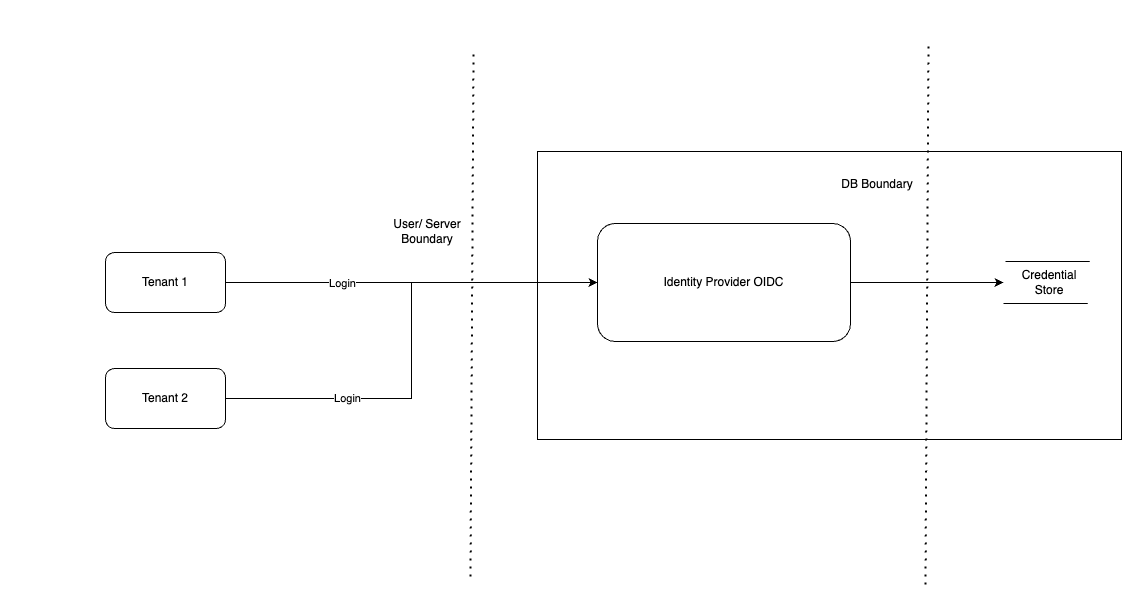
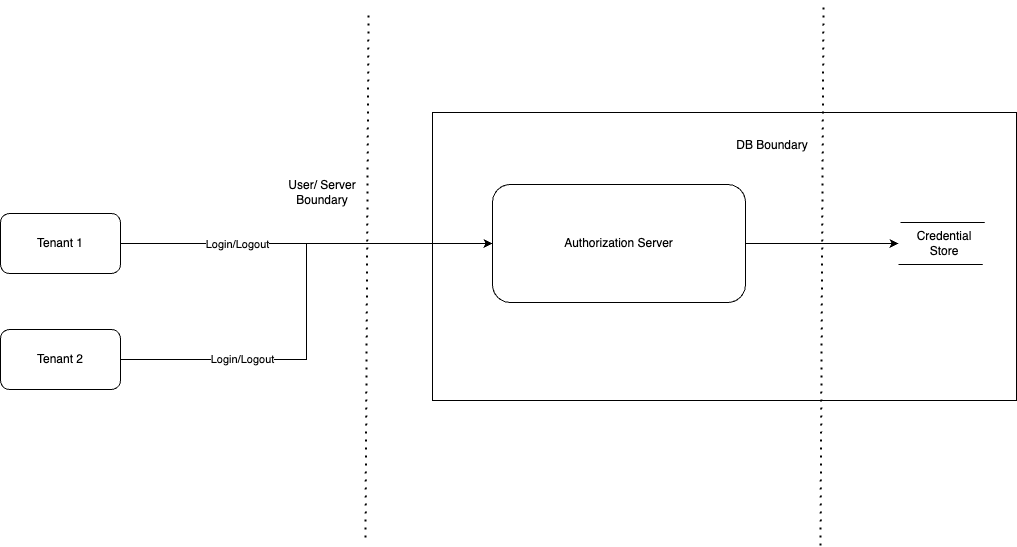
Threat model draft

diff --git a/threat_model.tex b/threat_model.tex
@@ -1,5 +1,5 @@
 \chapter{Threat Modelling}
-
+\ref{chap:threat_model}
 Threat modelling is an act of security analysis which aids in discovering potential vulnerabilities in an application or a system before they become threats \citep{threat_model_intro}. This exercise is a crucial step in the Software Development Life Cycle (SDLC), as it helps detect the possible flaws in the system, and suitable mitigation can be applied. Similarly, threat modelling will also be conducted for this project, where an authentication server using OIDC protocol is operated in a cloud environment. The approach that this project will apply to threat modelling is based on Shostack's Four Question Framework \citep{shostack}. The questions focus on the project objectives, what could go wrong there, what mitigations could be applied, and whether it can be improved. Using Shostacks questions in conjunction with the OWASP threat modelling process, the application, using OpenID Connect in Cloud, can be analysed \citep{owasp_threat_model}. 
 
 
@@ -8,7 +8,7 @@ To answer the first question about \textit{what are we working on}, this section
 \begin{itemize}
     \item \textbf{Application Name:} Multi-tenant App
     \item \textbf{Application Version:} v1.0
-    \item \textbf{Description:} This generic authentication and authorisation application utilises OpenID Connect protocols PKCE flow (See Figure \ref{fig:pkce_flow}) in a public cloud environment. This application will be based on multitenant capability, where the users cannot access each other's resources even though they share the same infrastructure and application. This is a general API which would provide the capabilities mentioned in Table \ref{table:threat_model_entry_points}.
+    \item \textbf{Description:} This generic authentication and authorisation application utilises OpenID Connect protocols PKCE flow (See Figure \ref{fig:pkce_flow}) in a public cloud environment. This application will be based on multitenant capability, where the users cannot access each other's resources even though they share the same infrastructure and application. This general API would provide the capabilities mentioned in Table \ref{table:threat_model_entry_points}.
   \end{itemize}
 
 \subsection{Entry Points}
@@ -29,7 +29,7 @@ To answer the first question about \textit{what are we working on}, this section
 \hline
 \endlastfoot
 
-/login & Entry point for user authentication.  & 
+/authorize & Entry point for user authentication.  & 
 - client\_id: The client ID of the application \newline 
 %- redirect\_uri: URI where the response will be sent \newline
 - scope: Scopes for requested authentication (e.g., OpenID, email) \newline 
@@ -39,13 +39,13 @@ To answer the first question about \textit{what are we working on}, this section
 \hline
 
 /token & Entry point for exchanging authorization code for tokens (access token, ID token, refresh token). & 
-- grant\_type: Must be "authorization\_code" \newline 
-- code: Authorization code received from /login \newline
-%- redirect\_uri: Must match the original redirect URI used in /login \newline 
-- client\_id: The client ID of the application & 
+- grant\_type: "authorization\_code" \newline 
+- code: Authorization code received from /authorize \newline
+- redirect\_uri: Must match the original redirect URI used in /login \newline 
+- client\_id: The client ID of the application
+- code\_verifier: Code used to validate code\_challenge& 
 - access\_token: Token for accessing protected resources \newline 
 - id\_token: Token containing user identity information \newline 
-- refresh\_token: Token for obtaining new access tokens \newline 
 - Error in case of invalid request \\
 \hline
 
@@ -64,16 +64,158 @@ To answer the first question about \textit{what are we working on}, this section
 \hline
 
 \end{longtable}
-\section{Data Flow Diagram}
-As a first step to identify what is the intention of the project, a data flow diagram (See Figure XX)
+
+\begin{longtable}{|p{8cm}|p{8cm}|}
+\caption{Threat modelling: Asset Descriptions}
+\label{table:threat_model_assets}
+\hline
+\rowcolor{grey!15}
+\textbf{Assets} & \textbf{Description} \\
+\hline
+\endfirsthead
+
+\hline
+\rowcolor{grey!15}
+\textbf{Assets} & \textbf{Description} \\
+\hline
+\endhead
+
+% Assets for PKCE App in Cloud with Multiple Tenants
+OAuth Tokens & Used to authorize access to resources on behalf of the user. \\
+\hline
+User Credentials & Sensitive information (e.g., usernames, passwords) used to authenticate users; protection. \\
+\hline
+OAuth Authorization Codes & Temporary codes exchanged during OAuth flows are essential for secure authorization in PKCE flows. \\
+\hline
+Cloud Infrastructure & The underlying infrastructure (servers, storage, networking) that supports the application in the cloud \\
+\hline
+Application Data & Data created, stored, or processed by the application, which could include user data or system configurations \\
+\hline
+API Endpoints & Points of interaction where the application exposes functionality to clients See the entry point (Table \ref{table:threat_model_entry_points}). \\
+\hline
+
+\end{longtable}
+
+
+\section{STRIDE Model}
+Using the given entry points and assets that the application uses, we can create a level zero Data Flow Diagram (DFD) (See Figure \ref{fig:dfd_app}). This diagram depicts the overview of the entire system with its significant processes, data flow and credential stores. With the help of Figure \ref{fig:dfd_app}, an abstract view of the entire system shows the processes and their relationships that can be used in established threat modelling techniques, namely STRIDE \citep{dfd_stride}. STRIDE is a threat modelling framework used to classify security threats developed by Microsoft \citep{stride_usage}. The letters in the acronym are Spoofing, Tampering, Repudiation, Information disclosure, Denial of service, and Elevation of privilege. The threat categories will be analyzed during the threat modelling \citep{stride}. Using the DFD, a STRIDE threat modelling is carried out, which provides an analysis of some threats in the given context of this model. This threat modelling framework is chosen because it allows for a systematic and structured approach to identify threats in different areas denoted by the acryonym and is easy to apply.
+
+
 
 \begin{figure}[h!]
 \centering
-\caption{Data Flow Diagram Level 1 OIDC App}\label{fig:dfd_app}
+\caption{Data Flow Diagram Level 0 OIDC App}\label{fig:dfd_app}
 \includegraphics[width=\textwidth, height=320px]{pics/DFD_APP.png}
 \end{figure}
 
-\section{STRIDE Model}
 
 
-\section{Mitigations}
+\subsection*{1. Spoofing}
+\begin{itemize}
+    \item \textbf{Threat}: An attacker attempts to impersonate a legitimate user or tenant to gain unauthorised access.
+    \item \textbf{Specific Attacks}:
+    \begin{itemize}
+        \item \textbf{ID Spoofing}: The attacker tries impersonating an End user from another OpenID Provider by using spoofed tokens or changing the token's contents \citep{oidc_attacks}.
+        \item \textbf{Credential Stuffing}: Using leaked credentials from other services to gain unauthorised access.
+        \item \textbf{Phishing}: Tricking users into providing their credentials through fraudulent login pages. For example, the attackers can manipulate the redirect endpoints to redirect to the malicious URL \citep{open_redirect_oidc_threat}.
+        \item \textbf{Man-in-the-Middle Attack (MITM)}: Intercepting the authorization code during the OAuth2 flow.
+    \end{itemize}
+    \item \textbf{Mitigation}:
+    \begin{itemize}
+        \item Signed tokens should always be verified at the issuer's end so that a spoofed token cannot bypass the security.
+        \item The client should validate the audience and issuer claims to prevent tokens from being used across different services.
+        \item Enforce multi-factor authentication (MFA) to prevent credential-based attacks.
+        \item PKCE mitigates MITM attacks by tying the authorization code to a unique challenge/response.
+        \item Use OAuth2’s \texttt{nonce} and \texttt{state} parameters to protect against replay attacks.
+    \end{itemize}
+\end{itemize}
+
+\subsection*{2. Tampering}
+\begin{itemize}
+    \item \textbf{Threat}: Unauthorized modification of data or code during transmission or at rest.
+    \item \textbf{Specific Attacks}:
+    \begin{itemize}
+        \item \textbf{Token Tampering}: This attack targets access, ID, and refresh tokens. Where the attacker manipulates the tokens to add their claims and scopes to allow authorised access \citep{oidc_attacks}.
+        \item \textbf{Code Injection}: Injecting malicious code or tokens into the OAuth2 flow.
+        \item \textbf{OAuth Token Replay}: Reusing an old token after invalidating or expired.
+        \item \textbf{Malicious Endpoint} The discovery endpoints of OIDC, such as the ./wellknown, are tampered with, and malicious endpoints are added to the public endpoint where the attacker can now get sensitive information, as the endpoints are fake \citep{oidc_attacks}.
+        \item \textbf{Ransomware}: Unlike just OIDC, cloud technologies, especially public clouds, are susceptible to ransomware attacks. In this attack, the attacker tries to misuse existing vulnerabilities and steal sensitive data or encrypt them, making them unusable \citep{ransomeware}.
+    \end{itemize}
+    \item \textbf{Mitigation}:
+    \begin{itemize}
+         \item A key should always sign the tokens like ID tokens containing user information and must be verified each time with the issuer when used.
+        \item Use PKCE to prevent authorization code injection by requiring a code challenge.
+        \item Sign and validate JWT tokens to ensure integrity and detect tampering.
+        \item Implement token expiration and invalidation mechanisms and rotating refresh tokens to reduce token reuse.
+        \item Use different tools to detect anomalies in the system and prevent malware such as ransomware from propagating deep into different services into the cloud \citep{ransomeware}.
+        \item Perform network segregation and build zero privilege systems to allow only the required actors to access the services and no more \citep{zero_trust}. 
+    \end{itemize}
+\end{itemize}
+
+\subsection*{3. Repudiation}
+\begin{itemize}
+    \item \textbf{Threat}: Users or tenants could deny performing certain actions, making it difficult to establish accountability.
+    \item \textbf{Specific Attacks}:
+    \begin{itemize}
+        \item \textbf{Action Denial}: A malicious tenant denies having issued a token or performed an action within the application that could deny sending or receiving messages in a digital transaction \citep{repudiation}.
+        \item \textbf{Tenant Switching}: Similarly, in a multi-tenant environment, a user might gain access to another tenant’s data and deny the action.
+    \end{itemize}
+    \item \textbf{Mitigation}:
+    \begin{itemize}
+        \item Use signed access tokens (JWT) with non-repudiation attributes.
+        \item Log every critical action and tenant interaction, including token issuance and API calls, with cryptographically signed entries.
+        \item Use immutable logs with encryption.
+    \end{itemize}
+\end{itemize}
+
+\subsection*{4. Information Disclosure}
+\begin{itemize}
+    \item \textbf{Threat}: Sensitive data such as access tokens, personal data, or tenant-specific information is exposed.
+    \item \textbf{Specific Attacks}:
+    \begin{itemize}
+        \item \textbf{Cross-Tenant Data Leakage}: Improper multi-tenant isolation could make one tenant’s data accessible to another.
+        \item \textbf{Token Exposure}: OAuth2 tokens might be leaked through insecure communication.
+        \item \textbf{Cloud Misconfigurations}: Misconfigured database leading to data exposure.
+    \end{itemize}
+    \item \textbf{Mitigation}:
+    \begin{itemize}
+        \item Implement strong tenant isolation at the application and database levels, ensuring no cross-tenant data leakage.
+        \item Use end-to-end encryption and enforce HTTPS for all communications.
+        \item Conduct regular security audits to identify cloud misconfigurations.
+        \item Manage whitelisted redirect URIs and limit callback URLs to trusted domains.
+    \end{itemize}
+\end{itemize}
+
+\subsection*{5. Denial of Service (DoS)}
+\begin{itemize}
+    \item \textbf{Threat}: An attacker may overwhelm the service, making it unavailable for legitimate users and tenants.
+    \item \textbf{Specific Attacks}:
+    \begin{itemize}
+        \item \textbf{Token Bombing}: Repeatedly requesting tokens using valid credentials to overload the authorization server.
+        \item \textbf{API Rate Limiting Attack}: Flooding API endpoints with excessive requests, leading to resource exhaustion.
+        \item \textbf{Resource Starvation}: Exploiting vulnerabilities to consume cloud resources, like CPU or memory, disrupting multi-tenant services.
+    \end{itemize}
+    \item \textbf{Mitigation}:
+    \begin{itemize}
+        \item Implement API rate limiting and token request throttling to prevent token bombing.
+        \item Use distributed denial of service (DDoS) protection services, such as AWS Shield \citep{aws_shield}.
+        \item Ensure each tenant has isolated resource pools to avoid one tenant's traffic affecting others.
+        \item Implement service quotas for resource consumption per tenant.
+    \end{itemize}
+\end{itemize}
+
+\subsection*{6. Elevation of Privilege}
+\begin{itemize}
+    \item \textbf{Threat}: An attacker could gain higher privileges than authorised, allowing access to sensitive data or functionality.
+    \item \textbf{Specific Attacks}:
+    \begin{itemize}
+        \item \textbf{PKCE Downgrade Attack}: The attacker can remove \texttt{code\_challenge} from the request if the authentication server does not validate the \texttt{code\_verifier}, the token will be issued, allowing unauthorised access \citep{oidc_attacks}.
+        \item \textbf{Insecure Multi-Tenant Access Control}: A user accessing other tenants' resources through misconfigured roles or policies.
+    \end{itemize}
+    \item \textbf{Mitigation}:
+    \begin{itemize}
+        \item The \texttt{code\_verifier} must be verified at the authentication server and the \texttt{code\_challenge} should be bound the the authorisation code \citep{oidc_attacks}.
+        \item Regularly audit role assignments, permissions, and token scopes to detect misconfigurations.
+        \item Implement tenant-aware access control to ensure that users can only interact with resources belonging to their tenant.
+    \end{itemize}
+\end{itemize}

diff --git a/abbrevations.tex b/abbrevations.tex
@@ -5,6 +5,7 @@
 
     \setlength {\itemsep}{-\parsep} % geringerer Zeilenabstand    	 
     \acro{DSRM}{Design and Research Methodology}
+    \acro{DFD}{Data Flow Diagram}
     \acro{GDPR}{General Data Protection Regulation}
     \acro{IdM}{Identity Management}
     \acro{JWT}{JSON Web Token}

diff --git a/main.tex b/main.tex
@@ -95,6 +95,7 @@
 \include{intro}
 \include{lit_review}
 \include{threat_model}
+\include{design}
 \appendix 
 
 % ---- Bibliography ----

diff --git a/design.tex b/design.tex
@@ -1,0 +1,3 @@
+\chapter{Design}
+
+In the Previous Chapter (
